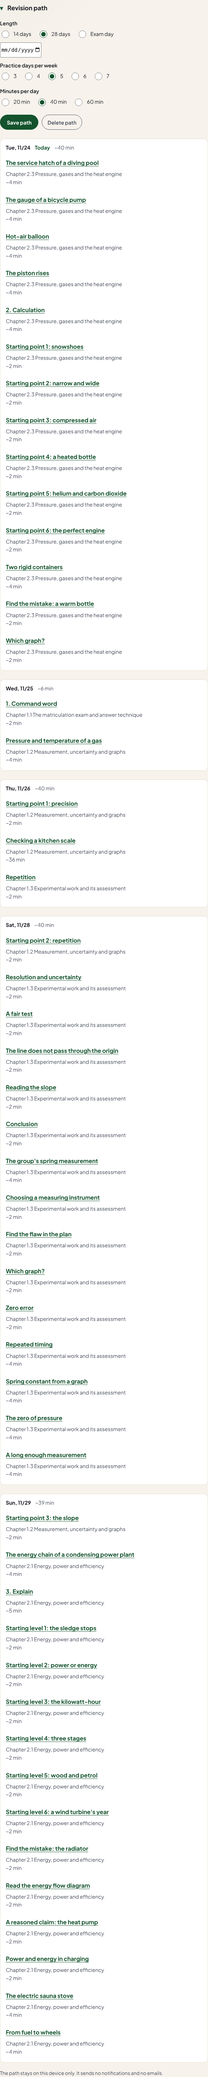
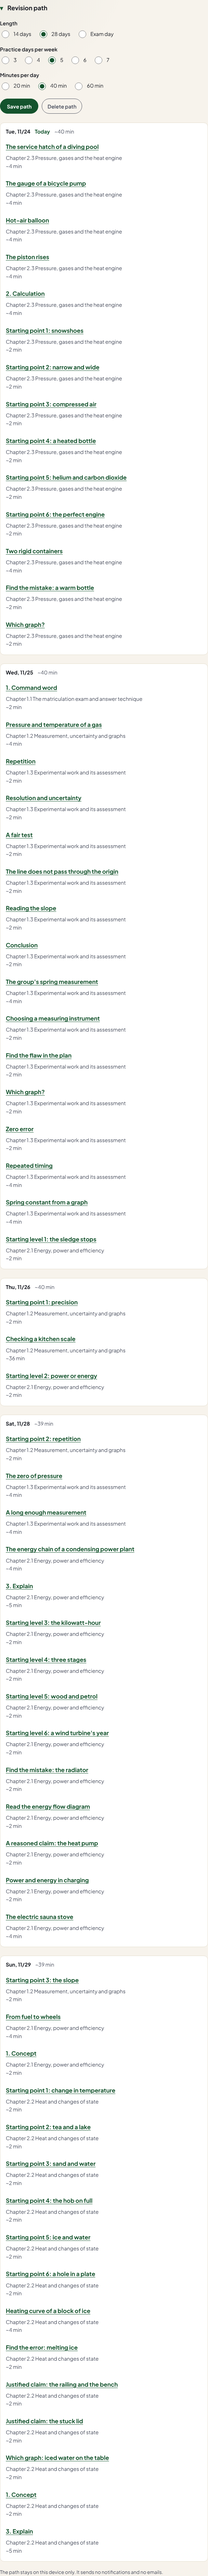
Kertauspolku: päivä täyttyy minuutteihin (ei jää puoliksi tyhjäksi), koepäivän kenttä vain koepäivävalinnalla; kuvat päivitetty
Claude-Session: https://claude.ai/code/session_018S3zFws6JUjZV1PVkfFQNg

Changed region(s): [[0.0, 0.0, 0.7812, 1.0], [0.5312, 0.0934, 0.5625, 0.1869]]

diff --git a/fysiikkalabra/templates/valmentaja.js b/fysiikkalabra/templates/valmentaja.js
@@ -442,13 +442,15 @@
         lastIdx++;
         left = review(n, left, items);
       } else {
-        while (queue.length && queue[0].diag && queue[0].task.min <= left) { const q = queue.shift(); items.push(q); left -= q.task.min; mark(n, q.task); }   // the diagnostic first, as many of its tasks as the day holds
-        if (!queue.length || !queue[0].diag) {
+        // the first task that still fits the minutes left, the diagnostic's first; a task that does not fit waits for a longer day (the day is never left half empty for it)
+        const takeFrom = (diag) => { for (let i = queue.findIndex((q) => !!q.diag === diag && q.task.min <= left); i >= 0; i = queue.findIndex((q) => !!q.diag === diag && q.task.min <= left)) { const q = queue.splice(i, 1)[0]; if (synth.some((r) => r[1] === q.task.id)) continue; items.push(q); left -= q.task.min; mark(n, q.task); } };
+        takeFrom(true);
+        if (!queue.some((q) => q.diag)) {
           const due = recommend(idx, { log: synth, cells: d.cells }, str(n), { goal, courses: [], budget: Math.floor(left / 2) }).recs.find((r) => r.reason.key === 'stale');   // a revisit that has come due goes first
           if (due && due.task.min <= left) { items.push({ task: due.task, why: 'stale' }); left -= due.task.min; mark(n, due.task); }
-          while (queue.length && queue[0].task.min <= left) { const q = queue.shift(); if (!synth.some((r) => r[1] === q.task.id)) { items.push(q); left -= q.task.min; mark(n, q.task); } }
+          takeFrom(false);
         }
-        if (!queue.length) left = review(n, left, items);   // the lessons are through: the rest of the days is revision
+        if (left >= 2 && !queue.some((q) => q.task.min <= left)) left = review(n, left, items);   // the lessons are through, or what is left is longer than the day has minutes left: revisions fill it
       }
       out.push({ date: str(n), n, items, minutes: B - left, last: n >= lastWeek });
     }
@@ -596,12 +598,15 @@
       const dl = el('label', 'coach-date'), date = el('input'); date.type = 'date'; date.value = cur.exam || '';
       date.min = str(num(t0) + EXAM_MIN); date.max = str(num(t0) + EXAM_MAX); date.setAttribute('aria-label', T.path_exam);
       dl.append(date); len.append(dl);
+      const showDate = () => { dl.hidden = (form.querySelector('input[name="path-len"]:checked') || {}).value !== 'exam'; };   // the date of the exam is asked only when the exam day is the choice
+      len.addEventListener('change', showDate);
       const per = radios('path-per', T.path_per, PER.map((n) => [n, String(n)]), cur.per), min = radios('path-min', T.path_min, MINS.map((n) => [n, fmt(T.path_mins, { n })]), cur.min);
       const save = el('button', 'coach-save', T.path_save); save.type = 'submit';
       const warn = el('p', 'notice', T.nostore); warn.hidden = true;
       const acts = el('div', 'coach-pathacts', null); acts.append(save);
       if (p) { const del = el('button', 'coach-pathdel', T.path_del); del.type = 'button'; del.addEventListener('click', () => { writePath(null); showPath(); }); acts.append(del); }
       form.append(len, per, min, acts, warn);
+      showDate();
       form.addEventListener('submit', (e) => {
         e.preventDefault();
         const v = (n) => (form.querySelector('input[name="' + n + '"]:checked') || {}).value, mode = v('path-len');

diff --git a/fysiikkalabra/templates/site.css b/fysiikkalabra/templates/site.css
@@ -2472,6 +2472,7 @@ details .fig-row.side>.fig svg{max-width:min(100%,32rem)}
 .kt-page .kt-task-start{margin-right:0}
 .coach-optrow{display:flex;flex-wrap:wrap;gap:0 1.2rem}
 .coach-date{display:block;margin:.2rem 0 0}
+.coach-date[hidden]{display:none}
 .coach-date input{min-height:44px;max-width:12rem;font-size:var(--fs-ui)}
 .coach-pathform{margin:.4rem 0 0}
 .coach-pathacts{display:flex;flex-wrap:wrap;gap:.6rem;margin:1rem 0 0}

diff --git a/fysiikkalabra/scripts/test_valmentaja_polku.py b/fysiikkalabra/scripts/test_valmentaja_polku.py
@@ -130,6 +130,8 @@ with sync_playwright() as pw:
     r = plan(P(mins=40, per=7, days=28), "2026-11-24")
     first = [it["task"]["id"] for it in r["days"][0]["items"]]
     expect("with nothing done the first day starts with the diagnostic, and the diagnostic is at most 30 minutes in all", first and all(i.startswith("fy9-koe#") for i in first[:12]) and sum(it["task"]["min"] for d in r["days"] for it in d["items"] if "task" in it and it["task"]["id"].startswith("fy9-koe#")) <= 30, first)
+    fill = [(d["date"], d["minutes"]) for d in r["days"] if not d["last"] and d["minutes"] < 40 - 5]
+    expect("a day is never left half empty for one task that does not fit: with 40 minutes every day before the last week holds at least 35 (the index has tasks of 2 to 5 minutes to fill with)", not fill, fill[:4])
     expect("with nothing done the chapters follow the order of the course", units_in_order(r) == U, units_in_order(r))
     expect("the last week holds revisions and minikokeet only, and that is the last seven days of the path", [d["date"] for d in r["days"] if d["last"]][0] >= "2026-12-15" and all(d["last"] == (d["date"] >= "2026-12-15") for d in r["days"]))
     # the diagnostic with different results (done the day before)
@@ -190,6 +192,7 @@ with sync_playwright() as pw:
             idx = p.evaluate("() => JSON.parse(document.getElementById('fy9-index').textContent)")
             expect(f"{lang} {w}px: the revision path is there, closed, with the three choices and no path yet (nothing saved)", p.locator("#coach-path").is_visible() and not p.locator("#coach-path").evaluate("e => e.open") and p.locator("#coach-path > summary").inner_text() == T["path_h"] and p.evaluate("(k) => localStorage.getItem(k)", PKEY) is None)
             p.locator("#coach-path > summary").click()
+            expect(f"{lang} {w}px: the date of the exam is hidden until the exam day is the choice, then it is there", not p.locator("#coach-path input[type=date]").is_visible() and (p.locator("#coach-path input[name=path-len][value=exam]").check() or True) and p.locator("#coach-path input[type=date]").is_visible() and (p.locator("#coach-path input[name=path-len][value='14']").check() or True) and not p.locator("#coach-path input[type=date]").is_visible())
             expect(f"{lang} {w}px: the choices: 14, 28 days or an exam day; 3 to 7 days a week; 20, 40 or 60 minutes; one save button, no delete button before a path", p.locator("#coach-path input[name=path-len]").count() == 3 and p.locator("#coach-path input[name=path-per]").count() == 5 and p.locator("#coach-path input[name=path-min]").count() == 3 and p.locator(".coach-save").count() == 1 and p.locator(".coach-pathdel").count() == 0 and p.locator(".coach-pathdays").count() == 0)
             small = p.evaluate("() => [...document.querySelectorAll('#coach-path label, #coach-path button, #coach-path input[type=date], #coach-path summary')].filter((e) => e.checkVisibility() && e.getBoundingClientRect().height < 40).length")
             expect(f"{lang} {w}px: every control of the path is 40 px or higher", small == 0, small)
